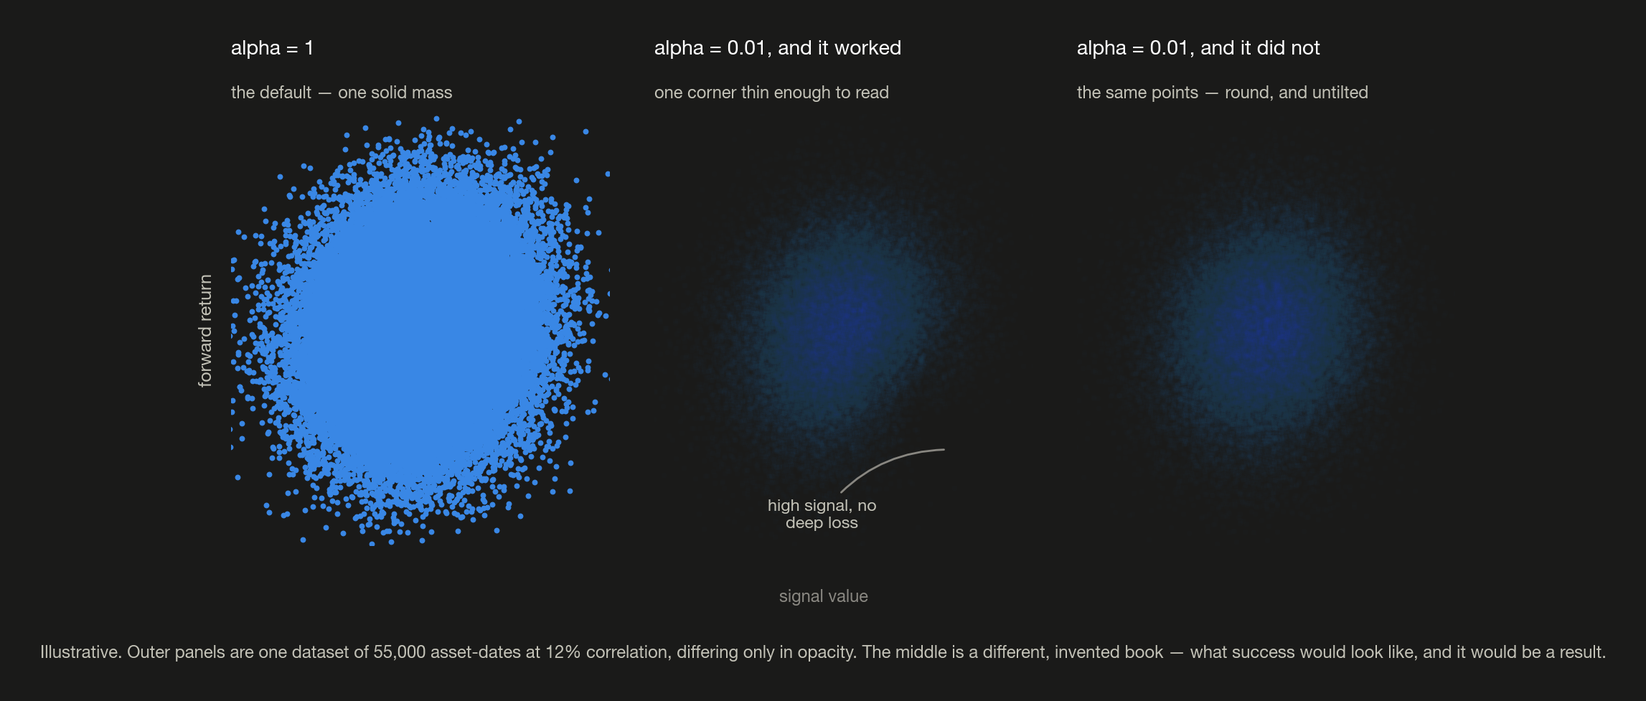
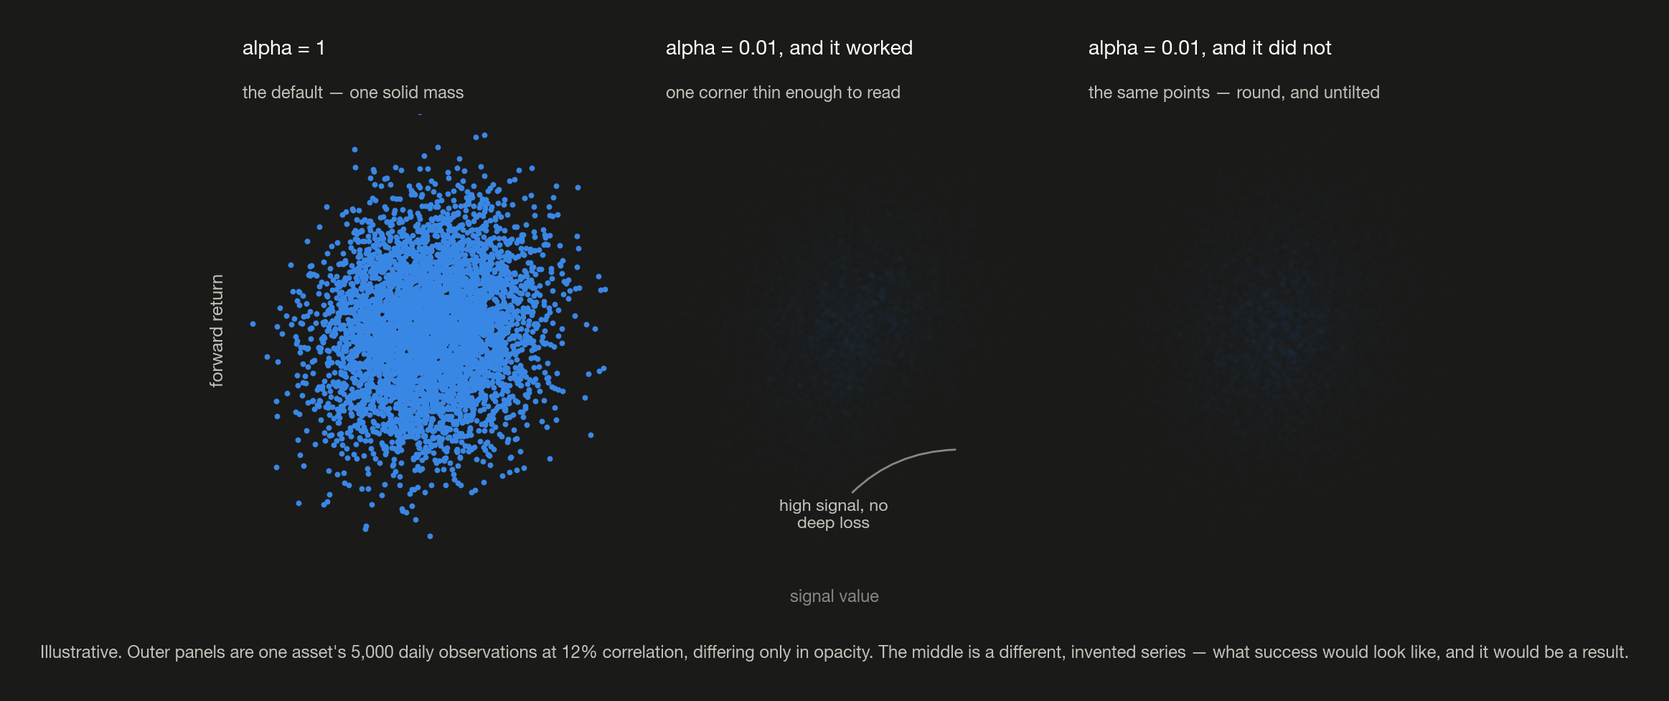
Hold 02 to one asset throughout
The chapter had been drifting between a single series and a 37-ETF panel.
Section 1 now states the scope outright, and everything downstream follows:
the sign illustration compares two windows of one asset rather than two
assets, the pooling caveat drops UNG against SHY and keeps 2021 against 2023,
an observation is a date, and the independence caveat is about overlapping
windows rather than assets moving together.

The figures follow too. The alpha panels are one asset's 5,000 daily
observations, so the opacity that suits them is 0.05 rather than 0.01, and
the three-way cut runs on one asset over 6,000 days — where the tails starve
harder, at 142 and 148 against 3,338. Cross-sectional ranking is now marked
as outside the chapter rather than as a fourth item on its list.

diff --git a/docs/figures/make_02_building_signals.py b/docs/figures/make_02_building_signals.py
@@ -32,9 +32,9 @@ from _style import THEMES, rounded_bar, save, style_axes, titles
 
 # -------------------------------------------------- fig: what sign() discards
 def binary_momentum(mode):
-    """02 s1 -- sign() collapses trend strength; both assets get the same weight.
+    """02 s1 -- sign() collapses trend strength; both windows get the same weight.
 
-    Schematic. Two illustrative paths over one lookback window, ending at +20%
+    Schematic. One asset over two illustrative lookback windows, ending at +20%
     and +10%. The right panel is the signal each produces: identical.
     """
     t = THEMES[mode]
@@ -63,7 +63,7 @@ def binary_momentum(mode):
     ax.set_xlim(0, n + 22)
     ax.set_xticks([])
     ax.set_ylim(94, 126)
-    titles(ax, t, "Two different trends", "one is twice the other over the same window")
+    titles(ax, t, "Two lookback windows", "one trend is twice the other")
 
     # ---- right: what sign() says about them
     style_axes(bx, t, ylabel="$MOM_{s,t}$")
@@ -87,14 +87,15 @@ def binary_momentum(mode):
 def alpha_opacity(mode):
     """02 s3.1 -- alpha turns ink into density; whether density reads is another matter.
 
-    Schematic. Left and right are the same 55,000 illustrative points at 12%
-    correlation -- about what 37 ETFs over six years give you -- drawn opaque
-    and at alpha=0.01. The middle panel is a different, invented dataset: what
-    the fix looks like when it works, a corner thin enough to read.
+    Schematic. Left and right are the same 5,000 illustrative points at 12%
+    correlation -- about twenty years of one asset's daily observations --
+    drawn opaque and at a low opacity. The middle panel is a different,
+    invented series: what the fix looks like when it works, a corner thin
+    enough to read.
     """
     t = THEMES[mode]
     rng = np.random.RandomState(23)
-    n = 55000
+    n = 5000
     r = 0.12
     x = rng.standard_normal(n)
     y = r * x + (1 - r ** 2) ** 0.5 * rng.standard_normal(n)
@@ -139,9 +140,9 @@ def alpha_opacity(mode):
     axes[0].set_ylabel("forward return", color=t["ink_secondary"], fontsize=9, labelpad=8)
     fig.text(0.5, 0.01, "signal value", ha="center", color=t["muted"], fontsize=8.5)
     fig.text(0.5, -0.09,
-             "Illustrative. Outer panels are one dataset of 55,000 asset-dates at 12% correlation, "
-             "differing only in opacity. The middle is a different, invented book — what success "
-             "would look like, and it would be a result.",
+             "Illustrative. Outer panels are one asset's 5,000 daily observations at 12% "
+             "correlation, differing only in opacity. The middle is a different, invented series — "
+             "what success would look like, and it would be a result.",
              ha="center", color=t["ink_secondary"], fontsize=8.6)
     save(fig, t, f"alpha-opacity-{mode}.png")
 
@@ -280,16 +281,16 @@ def noise_shrinks(mode):
 def three_bucketings(mode):
     """02 s5 -- raw, standardized-at-fixed-intervals, and rolling quantile.
 
-    Schematic. One simulated panel of 30 assets over 1,200 days with a calm
-    era and a violent one, carrying the same risk-adjusted edge throughout.
-    Only the bucketing differs between panels; bar heights are mean forward
-    return in bp on a shared scale, and n is the count behind each bar.
+    Schematic. One simulated asset over 6,000 days -- roughly twenty-four years
+    -- with a calm era and a violent one, carrying the same risk-adjusted edge
+    throughout. Only the bucketing differs between panels; bar heights are mean
+    forward return in bp on a shared scale, and n is the count behind each bar.
     """
     t = THEMES[mode]
     rng = np.random.RandomState(12)
-    A, T, W, rho = 30, 1200, 250, 0.12
+    A, T, W, rho = 1, 6000, 500, 0.12
 
-    vol = np.where(np.arange(T) < 800, 0.6, 2.0)[:, None]     # calm era, then violent
+    vol = np.where(np.arange(T) < 4000, 0.6, 2.0)[:, None]    # calm era, then violent
     z = rng.standard_normal((T, A))                            # the risk-adjusted signal
     fwd = 100 * vol * (rho * z + (1 - rho ** 2) ** 0.5 * rng.standard_normal((T, A)))
     raw = z * vol                                              # what you measure before scaling
@@ -302,7 +303,7 @@ def three_bucketings(mode):
     for i in range(2 * W, T):
         rq[i] = (sig[i - W:i] < sig[i]).mean(axis=0)
 
-    violent = np.repeat((np.arange(T) >= 800)[:, None], A, axis=1)
+    violent = np.repeat((np.arange(T) >= 4000)[:, None], A, axis=1)
 
     usable = np.zeros((T, A), bool)                            # same rows in all three panels
     usable[2 * W:] = True
@@ -348,10 +349,10 @@ def three_bucketings(mode):
         titles(ax, t, head, sub)
 
     fig.text(0.5, -0.06,
-             "Illustrative. 30 assets, a calm era then a violent one, the same risk-adjusted edge "
-             "throughout, and identical rows in all three panels — only the cut differs.\nUnder each "
-             "bar: how many observations it holds, and what share of them came from the violent era "
-             "(57% of the sample).",
+             "Illustrative. One asset over 6,000 days, calm and then violent, carrying the same "
+             "risk-adjusted edge throughout, with identical rows in all three panels — only the cut "
+             "differs.\nUnder each bar: how many observations it holds, and what share of them came "
+             "from the violent era.",
              ha="center", color=t["ink_secondary"], fontsize=8.6)
     save(fig, t, f"three-bucketings-{mode}.png")
 

diff --git a/docs/02-building-signals.md b/docs/02-building-signals.md
@@ -21,15 +21,19 @@ where $s$ indexes the asset and $t$ the date, $r_{s,t-1}$ is that asset's return
 just ended, and $MOM_{s,t}$ the signal it produces for today — either +1 (long) or −1 (short), with
 nothing in between.
 
+**Note (Scope).** This chapter works **one asset at a time**: a single series of dates, each
+carrying that asset's own signal and its own forward return. Ranking assets against each other on
+the same day is a different question, and it belongs to [03](03-from-signal-to-position.md).
+
 ### Why the sign alone is not enough
 
-Two assets that rose 20% and 10% over the same window produce the *same* signal, so a strategy
-built on it takes the same size in both. Trend **strength** is thrown away; only trend **direction**
+One window in which the asset rose 20% and another in which it rose 10% produce the *same* signal,
+so a strategy built on it takes the same size in both. Trend **strength** is thrown away; only trend **direction**
 survives.
 
 <picture>
   <source media="(prefers-color-scheme: dark)" srcset="figures/binary-momentum-dark.png">
-  <img alt="Left panel: two price paths rebased to 100 over one lookback window, the darker one climbing to 120 and the lighter one to 110. Right panel: the momentum signal each path produces, two bars of identical height at plus one, joined by an arrow labelled identical" src="figures/binary-momentum-light.png">
+  <img alt="Left panel: one asset's price over two lookback windows, rebased to 100, the darker one climbing to 120 and the lighter one to 110. Right panel: the momentum signal each path produces, two bars of identical height at plus one, joined by an arrow labelled identical" src="figures/binary-momentum-light.png">
 </picture>
 
 ### What to keep instead
@@ -118,10 +122,10 @@ Across an x-axis running from $-2\sigma_x$ to $+2\sigma_x$ the trend line climbs
 to end, while at every $x$ the points scatter over roughly 476 bp. **A 0.6% slope inside a 4.8%
 cloud** — that ratio *is* the picture.
 
-**Note (And it is worse than that).** Part of those 119 bp is not the market's doing: pooling UNG
-with SHY, and 2021 with 2023, adds spread that standardization (§ 4) removes. Nor is a larger
+**Note (And it is worse than that).** Part of those 119 bp is not the market's doing: pooling a
+calm 2021 with a violent 2023 adds spread that standardization (§ 4) removes. Nor is a larger
 $\rho$ on offer — a predictor correlating 50% with next month's return would be arbitraged away
-long before you found it in 37 liquid ETFs. 10–15% is a competitive market's ceiling, not a
+long before you found it in anything liquid. 10–15% is a competitive market's ceiling, not a
 shortfall in craft.
 
 ## 3. Two ways out of the cloud
@@ -131,16 +135,17 @@ the second one works.
 
 ### 3.1 Turn down `alpha`
 
-`alpha` is a marker's opacity. At `alpha=0.01` a single point is invisible and only *overlap*
-renders, so the chart becomes a density map instead of a mass of ink — below, the left panel is the
-before and the other two are both the after.
+`alpha` is a marker's opacity. Turn it far enough down — `alpha=0.05` on a few thousand points,
+lower still on more — and a single point becomes nearly invisible, so only *overlap* renders and the
+chart is a density map rather than a mass of ink. Below, the left panel is the before and the other
+two are both the after.
 
 **Note (Not the other alphas).** matplotlib's opacity keyword: not a regression intercept, not the
 excess return a manager is paid for, not § 8's smoothing constant $\alpha$. Code font is the tell.
 
 <picture>
   <source media="(prefers-color-scheme: dark)" srcset="figures/alpha-opacity-dark.png">
-  <img alt="Three scatter panels of forward return against a signal. Left, at full opacity, 55,000 points render as one solid disc with no internal structure. Middle, the same rendering at alpha 0.01 on a dataset where a high signal rules out deep losses: a soft density cloud with the bottom-right corner visibly bitten out, annotated high signal, no deep loss. Right, alpha 0.01 on the original points: a smooth round density with no thin region anywhere" src="figures/alpha-opacity-light.png">
+  <img alt="Three scatter panels of forward return against a signal, drawn from one asset's 5,000 daily observations. Left, at full opacity, they render as one solid disc with no internal structure. Middle, the same rendering at low opacity on a series where a high signal rules out deep losses: a soft density cloud with the bottom-right corner visibly bitten out, annotated high signal, no deep loss. Right, low opacity on the original points: a smooth round density with no thin region anywhere" src="figures/alpha-opacity-light.png">
 </picture>
 
 Sometimes it is enough — the middle panel, where high signal against a badly negative return has
@@ -148,8 +153,8 @@ thinned enough to read. A signal that only rules something *out* is still tradea
 
 **Why it usually fails.** Three reasons that compound:
 
-- **The density comes back smooth.** 55,000 asset-dates average into a clean bivariate blob, and
-  opacity renders that faithfully. A smooth density has no feature.
+- **The density comes back smooth.** Twenty years of daily observations average into a clean
+  bivariate blob, and opacity renders that faithfully. A smooth density has no feature.
 - **The tilt is finer than the ink.** § 2's band is eight times taller than the trend line's whole
   rise, so the lean is smaller than the markers drawn over it.
 - **It treats the symptom.** The scatter spends its resolution on individual noisy points when the
@@ -163,7 +168,7 @@ concluding anything **from** a cloud.
 
 **The construction.** Six steps, and the figure below is the same six read left to right.
 
-1. **Draw** five observations at random — one observation being one asset on one date. The left
+1. **Draw** five observations at random — one observation being one date. The left
    column marks fifteen of them, three draws' worth, all in one colour: any five will do.
 2. **Rank** those five by signal value, highest to lowest.
 3. **Assign** them to slots — highest signal into G5, next into G4, down to G1.
@@ -184,23 +189,23 @@ worst performers.
 
 **Example.** One draw of five, invented:
 
-| | Signal | Forward return |
-| --- | --- | --- |
-| A | +2.1% | −0.4% |
-| B | −1.8% | +0.9% |
-| C | +0.6% | +1.3% |
-| D | +3.4% | +0.2% |
-| E | −0.9% | −1.1% |
+|   | Signal | Forward return |
+| - | ------ | -------------- |
+| A | +2.1%  | −0.4%         |
+| B | −1.8% | +0.9%          |
+| C | +0.6%  | +1.3%          |
+| D | +3.4%  | +0.2%          |
+| E | −0.9% | −1.1%         |
 
 Filled by signal, and then by forward return instead:
 
-| Slot | Sorted by **signal** | filed return | Sorted by **return** | filed return |
-| --- | --- | --- | --- | --- |
-| G5 | D | +0.2% | C | +1.3% |
-| G4 | A | −0.4% | B | +0.9% |
-| G3 | C | +1.3% | D | +0.2% |
-| G2 | E | −1.1% | A | −0.4% |
-| G1 | B | +0.9% | E | −1.1% |
+| Slot | Sorted by signal | filed return | Sorted by return | filed return |
+| ---- | ------------------------- | ------------ | ------------------------- | ------------ |
+| G5   | D                         | +0.2%        | C                         | +1.3%        |
+| G4   | A                         | −0.4%       | B                         | +0.9%        |
+| G3   | C                         | +1.3%        | D                         | +0.2%        |
+| G2   | E                         | −1.1%       | A                         | −0.4%       |
+| G1   | B                         | +0.9%        | E                         | −1.1%       |
 
 The left pair is what step 4 files: a mess, which is what one draw looks like at 12% correlation.
 The right pair is flawless — and would be flawless for **any** signal, including one out of a random
@@ -234,15 +239,15 @@ The true bars are identical in all four panels — near −20 bp at G1 and +20 b
 moves, and at $m = 5$ it is larger than the whole staircase. **Sample size is not a detail of the
 recipe; it is the reason the recipe works.**
 
-**Note (Where that overstates it).** The $m^{1/2}$ assumes independence. Overlapping windows and
-assets that move together push the effective count well below $m$, so the noise does not really
-reach 7 bp. The logic survives: averaging cancels noise and leaves systematic signal.
+**Note (Where that overstates it).** The $m^{1/2}$ assumes independence. Overlapping lookback
+windows and returns that cluster in time push the effective count well below $m$, so the noise does
+not really reach 7 bp. The logic survives: averaging cancels noise and leaves systematic signal.
 
 ## 4. Risk-adjusted momentum
 
-Raw momentum is not comparable across time or assets. 2% monthly momentum in the 2021 inflation
-regime is unremarkable; the same 2% in the 2023 rate-hike drawdown is strong. Same number, different
-meaning — and 2% for SHY is not 2% for UNG.
+Raw momentum is not comparable across time. 2% monthly momentum in the 2021 inflation regime is
+unremarkable; the same 2% in the 2023 rate-hike drawdown is strong. Same number, different meaning
+— and the difference is entirely in the volatility each figure was earned against.
 
 Divide by volatility:
 
@@ -253,29 +258,29 @@ $$
 where $\sigma_{s,t}$ is that asset's volatility, estimated on data strictly before $t$ — a
 denominator that peeks at the future contaminates the signal as surely as a numerator would (§ 10).
 
-Every asset and period now lands on one scale, so values compare — two students both scoring 80 on
-different exams against different cohorts have not achieved the same thing.
+Every period now lands on one scale, so values compare — two students both scoring 80 on different
+exams against different cohorts have not achieved the same thing.
 
-## 5. One dataset, three ways to cut it
+## 5. We Need Three Graphs
 
 § 3.2 took the five buckets as given. Forming them is a separate choice, and there are three
-defensible ones. Below they are run on identical data — the same 30 assets, the same rows, the same
-forward returns, carrying the same risk-adjusted edge from the first day to the last. Only the cut
-changes.
+defensible ones. Below they are run on identical data — one asset over 6,000 days, the same rows,
+the same forward returns, carrying the same risk-adjusted edge from the first day to the last. Only
+the cut changes.
 
 <picture>
   <source media="(prefers-color-scheme: dark)" srcset="figures/three-bucketings-dark.png">
-  <img alt="Three bucket charts side by side, computed from one dataset by three different cuts. All three rise monotonically from G1 to G5 and look equally healthy. Under each bar are two numbers: the observation count and the share of that bucket drawn from the sample's violent era. Cutting on raw values gives equal counts of 4,200 but violent shares of 90, 40, 29, 39 and 88 percent against a 57 percent base rate. Cutting the standardized signal at fixed intervals gives counts of 1,047, 3,035, 12,886, 3,033 and 999 with violent shares still tilted at 80 and 79 percent in the tails. Cutting at rolling quantiles gives roughly 4,200 in every bucket and violent shares flat at 56 to 58 percent" src="figures/three-bucketings-light.png">
+  <img alt="Three bucket charts side by side, computed from one asset's history by three different cuts. All three rise monotonically from G1 to G5 and look equally healthy. Under each bar are two numbers: the observation count and the share of that bucket drawn from the sample's violent era. Cutting on raw values gives equal counts of 1,000 but violent shares of 73, 23, 16, 20 and 68 percent against a 40 percent base rate. Cutting the standardized signal at fixed intervals gives counts of 142, 702, 3,338, 670 and 148 with violent shares still tilted at 55 and 53 percent in the tails. Cutting at rolling quantiles gives roughly 1,000 in every bucket and violent shares flat at 39 to 41 percent" src="figures/three-bucketings-light.png">
 </picture>
 
 **Read the counts, not the bars.** All three staircases are monotone, and all three would pass
 § 3.2's test unchanged. Everything that separates them is in the two lines printed underneath.
 
-| Cut | What it answers | What it distorts |
-| --- | --- | --- |
-| **Raw values** | What the signal looks like at its own natural scale, before any modelling choice is imposed on it | The buckets sort on **volatility**. G1 and G5 are 90% and 88% violent-era observations against a 57% base rate, so the staircase is largely a volatility sort wearing the signal's name |
-| **Standardized, fixed intervals** | Whether the edge survives once every era is put on a common scale (§ 4) | It **starves the tails**: 1,047 and 999 observations in the two buckets you would trade, against 12,886 in the middle one you would not. Trailing volatility also lags a regime break, so the tails still tilt violent at 80% and 79% |
-| **Rolling quantile** | Whether the ordering holds using only what was knowable at the time — the only one of the three with no look-ahead | It **discards magnitude**. A signal at the 95th percentile of its own past ranks identically whether it is +2% or +20%, and that difference carried information |
+| Cut                                     | What it answers                                                                                                     | What it distorts                                                                                                                                                                                                                                                       |
+| --------------------------------------- | ------------------------------------------------------------------------------------------------------------------- | ---------------------------------------------------------------------------------------------------------------------------------------------------------------------------------------------------------------------------------------------------------------------- |
+| **Raw values** | What the signal looks like at its own natural scale, before any modelling choice is imposed on it | **Volatility becomes the sort key.** G1 and G5 are 73% and 68% violent-era observations against a 40% base rate, so the staircase is largely a volatility sort wearing the signal's name |
+| **Standardized, fixed intervals** | Whether the edge survives once every era is put on a common scale (§ 4) | **Starved tails.** 142 and 148 observations in the two buckets you would trade, against 3,338 in the middle one you would not — look at the error bar on G1. Trailing vol also lags a regime break, so the tails still tilt violent at 55% and 53% |
+| **Rolling quantile** | Whether the ordering holds using only what was knowable at the time — the only one of the three with no look-ahead | **Magnitude is discarded.** A signal at the 95th percentile of its own past ranks identically whether it is +2% or +20%, and that difference carried information |
 
 None of the three dominates, so produce all three and read them against each other. A staircase that
 survives all three cuts is a different claim from one that appears in only the first.
@@ -312,8 +317,8 @@ cannot show who is inside a bucket.** Neither can any of them show when the edge
 the distribution inside a bar looks like. Those need different plots: the same chart on subsamples,
 and the spread of returns within a bucket rather than its mean.
 
-A fourth angle sits outside this list: cross-sectional ranking — each asset against its peers that
-day rather than against its own past. That is the Portfolio 1 vs Portfolio 2 distinction in
+A fourth angle sits outside this chapter entirely: cross-sectional ranking — each asset against
+its peers that day rather than against its own past. That is the Portfolio 1 vs Portfolio 2 distinction in
 [03](03-from-signal-to-position.md).
 
 ## 6. Combining a slow and a fast horizon
@@ -407,7 +412,7 @@ three still have to pass § 3.2's bucket test before they earn a backtest.
 | Rule         | Go long when                            | Costs                                                            |
 | ------------ | --------------------------------------- | ---------------------------------------------------------------- |
 | Zero-line    | MACD is above zero                      | a slow trend filter, late                                        |
-| Crossover    | the histogram is above zero             | earlier, noisier — the churn is § 9's subject                 |
+| Crossover    | the histogram is above zero             | earlier, noisier — the churn is § 9's subject                  |
 | Proportional | always, sized by the standardized value | none of the magnitude, but see[03](03-from-signal-to-position.md) |
 
 ## 9. Volatility clustering, and smoothing the fast leg
@@ -452,13 +457,13 @@ times** B — that ratio *is* the magnitude, and since the signal is proportiona
 held six times larger. Nothing is lost: the sign still carries direction, the absolute value adds
 strength on top.
 
-One caveat, which is § 4's subject: 0.024 means nothing on its own. 2.4% for SHY and 2.4% for UNG
-are not the same trend, and neither are 2021's and 2023's. Only *relative* sizes are ever used.
+One caveat, which is § 4's subject: 0.024 means nothing on its own. 2.4% earned in a calm year and
+2.4% earned in a violent one are not the same trend. Only *relative* sizes are ever used.
 
 ## Appendix · Notation
 
-Throughout, $s$ indexes the asset and $t$ the date; both are dropped where a formula concerns one
-asset on one day.
+Throughout, $s$ indexes the asset and $t$ the date. The chapter works one asset at a time, so $s$
+is fixed and is dropped wherever it adds nothing.
 
 | Symbol                                          | Means                                                                                                                         | First used |
 | ----------------------------------------------- | ----------------------------------------------------------------------------------------------------------------------------- | ---------- |
@@ -468,14 +473,14 @@ asset on one day.
 | $x$, $y$, $\beta$, $\epsilon$           | one observation's signal value and forward return, the slope between them, and the part of the return the signal cannot reach | § 2       |
 | $\rho$, $R^2$                               | their correlation, and its square — the share of the return's variance the signal explains                                   | § 2       |
 | $\sigma_x$, $\sigma_y$, $\sigma_\epsilon$ | standard deviation of the signal, of the return, and of the unreachable part                                                  | § 2       |
-| $m$                                           | observations sharing a bucket                                                                                                 | § 3.2 |
-| G1 … G5                                        | the buckets, lowest to highest signal value                                                                                   | § 3.2 |
+| $m$                                           | observations sharing a bucket                                                                                                 | § 3.2     |
+| G1 … G5                                        | the buckets, lowest to highest signal value                                                                                   | § 3.2     |
 | $\sigma_{s,t}$                                | one asset's volatility, estimated on data before that date                                                                    | § 4       |
 | $H$                                           | EWMA half-life, in periods                                                                                                    | § 7       |
-| $P_t$, $\Delta_{t-j}$                       | price on that date, and the one-period change at that lag                                                                     | § 8      |
-| $n_f$, $n_s$                                | fast and slow EMA spans, conventionally 12 and 26                                                                             | § 8      |
-| $\alpha_f$, $\alpha_s$                      | their smoothing constants, two over span plus one                                                                             | § 8      |
-| $c_i$, $k_j$                                | MACD's net weight on the price at that lag, and its kernel weight on the price change                                         | § 8      |
+| $P_t$, $\Delta_{t-j}$                       | price on that date, and the one-period change at that lag                                                                     | § 8       |
+| $n_f$, $n_s$                                | fast and slow EMA spans, conventionally 12 and 26                                                                             | § 8       |
+| $\alpha_f$, $\alpha_s$                      | their smoothing constants, two over span plus one                                                                             | § 8       |
+| $c_i$, $k_j$                                | MACD's net weight on the price at that lag, and its kernel weight on the price change                                         | § 8       |
 
 **Note (Collisions to watch).** Three quantities wear a $\sigma$ and they are not interchangeable:
 $\sigma_y$ is the spread of forward return across the pooled cloud (§ 2), $\sigma_\epsilon$ the
